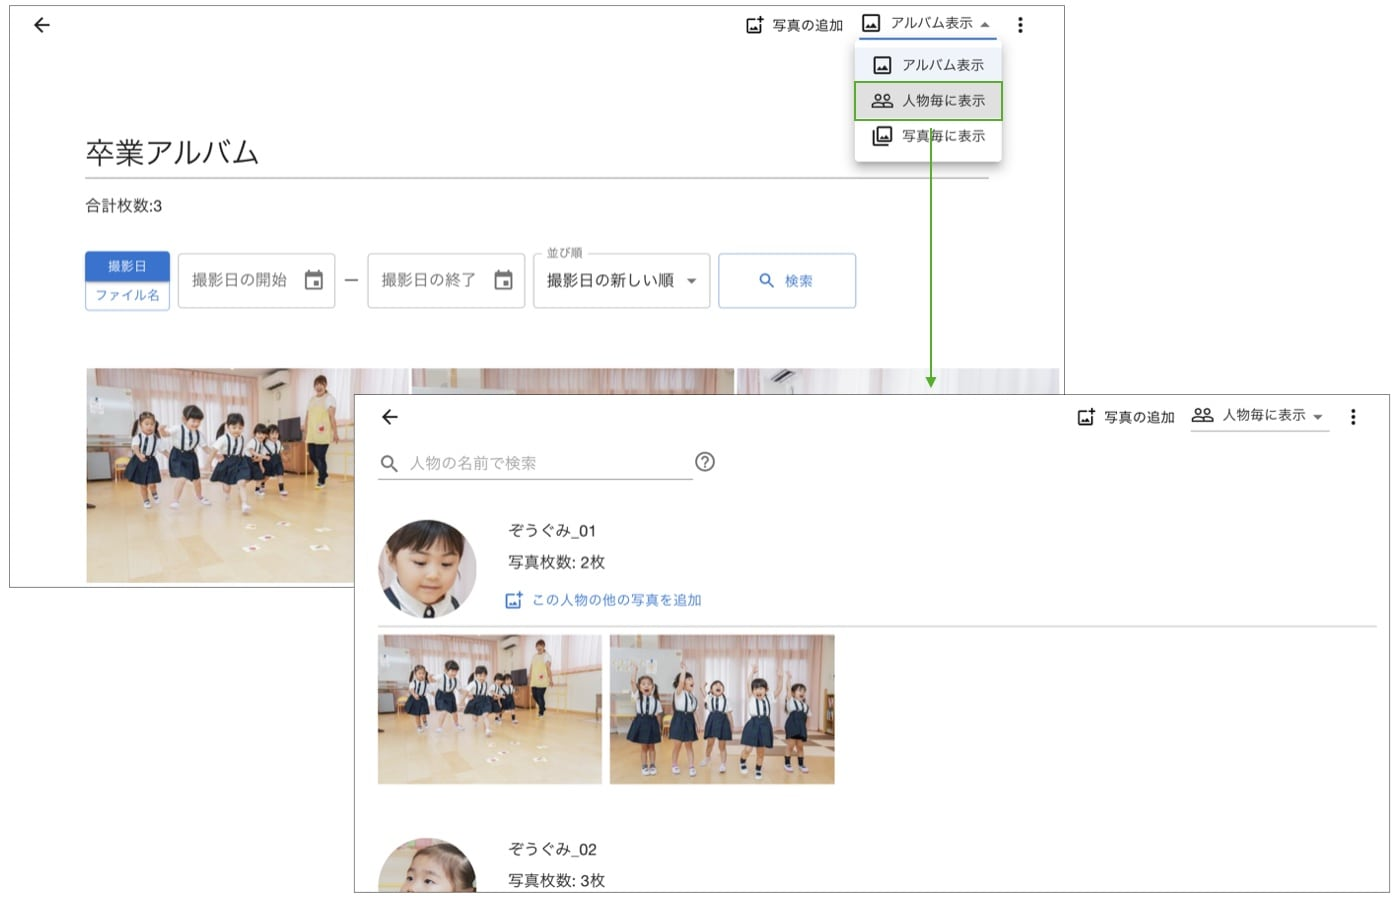
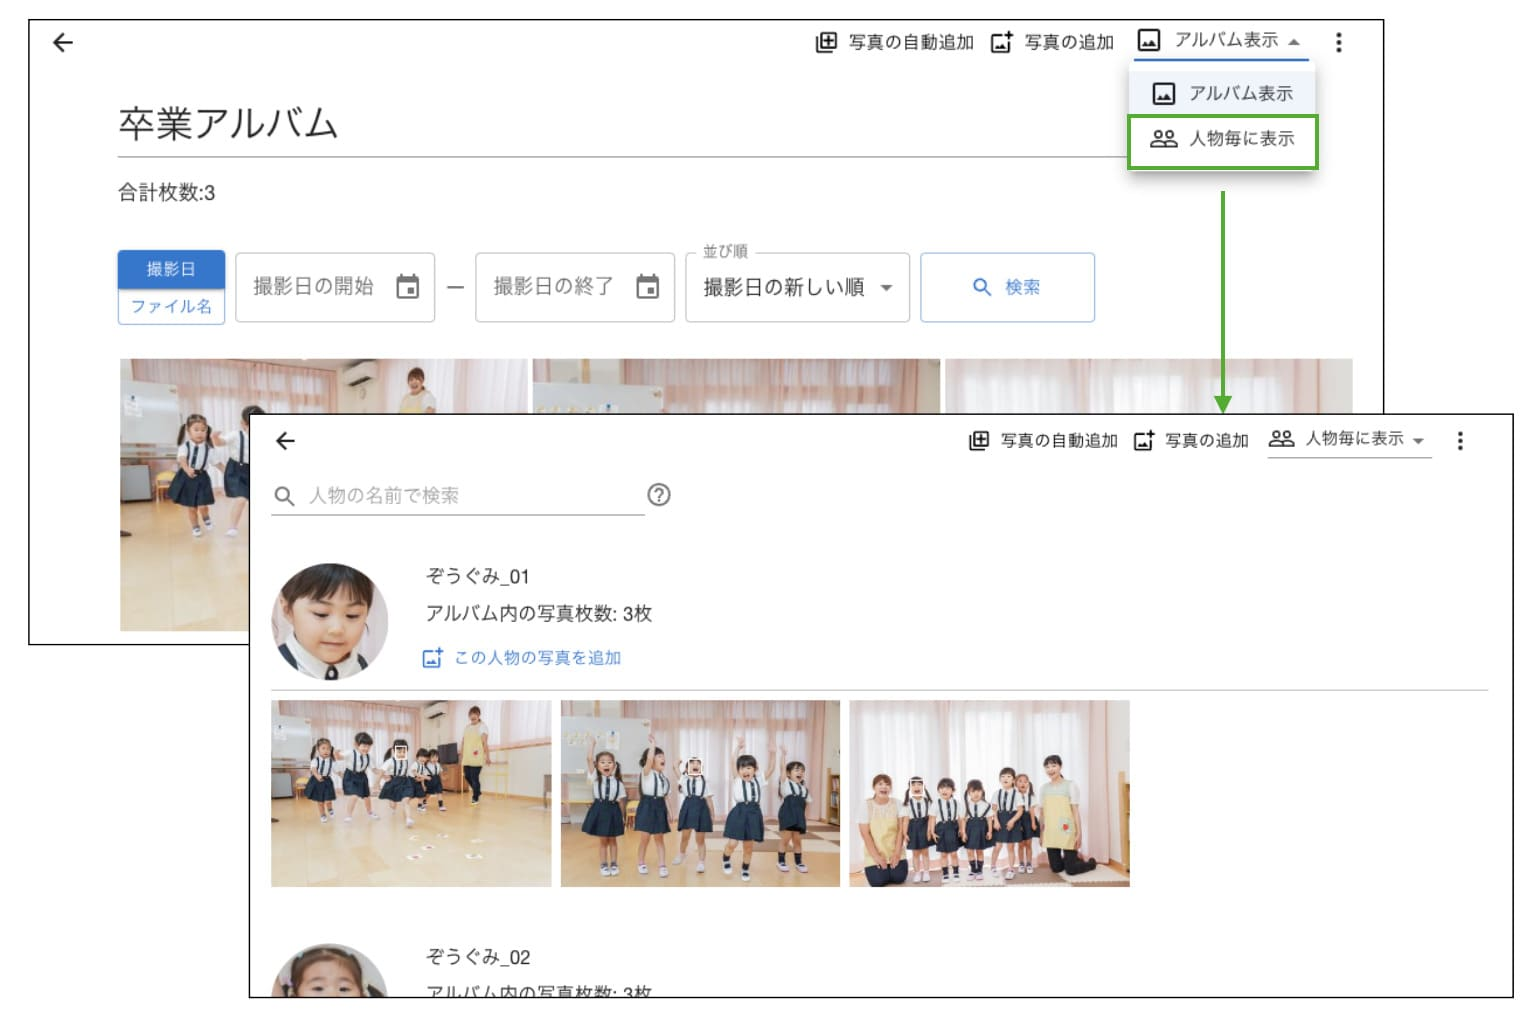
update

Changed region(s): [[0.0, 0.0, 1.0, 0.9933], [0.4918, 0.4967, 0.5225, 0.5277]]

diff --git a/sidebars.js b/sidebars.js
@@ -46,6 +46,10 @@ const sidebars = {
           type: 'doc',
           id: 'tutorial/create-album',
         },
+        {
+          type: 'doc',
+          id: 'tutorial/download-album',
+        },
       ],
     },
     {

diff --git a/docs/tutorial/05_create-album.md b/docs/tutorial/05_create-album.md
@@ -1,51 +1,66 @@
 ---
-sidebar_label: 'アルバムの作成'
+sidebar_label: 'アルバムの写真選び'
 sidebar_position: 5
 ---
 
-# アルバムの作成
-アルバム作成の操作は以下のとおりです。
+# アルバムの写真選び
+アルバムの写真選びの操作は以下のとおりです。
 
-1. ページ左の「アルバム」メニューをクリックし、ページ右にある「アルバムを作成」ボタンをクリックします。  
+1. まずはアルバムを作成します。  
+ページ左の「アルバム」メニューをクリックし、ページ右にある「アルバムを作成」ボタンをクリックします。  
 アルバム詳細ページが表示されますので、アルバム名を入力します。
 
- ![create album](/img/docs/create-album.jpg)
+ ![アルバムの選択](/img/docs/create-album.jpg)
 
-2. アルバムに写真を追加します。  
-アルバムへの写真の追加は写真の一覧から選択する方法と、対象の人物が写った写真から選択する方法があります。  
-はじめに写真の一覧から選択してみましょう。  
+2. アルバムに写真を選んで追加します。  
+アルバムへの写真の追加は以下の3通りの方法があります。
+
+ <ul>
+   <li>写真の一覧から選択</li>
+   <li>対象の人物が写った写真から選択</li>
+   <li>自動選択</li>
+ </ul>
+
+     
+ はじめに、写真の一覧から選択する方法をやってみましょう。  
 
  ページ右上部の「写真の追加」ボタンをクリックします。  
 写真の一覧が表示されますので、アルバムに追加したい写真のチェックマークをクリックします。  
 写真の選択が終わりましたら「完了」ボタンをクリックすると、アルバムに選択した写真が追加されます。
 
- ![select photo from photos](/img/docs/select-photo-from-photos.jpg)
+ ![写真一覧から写真を選択](/img/docs/select-photo-from-photos.jpg)
 
-3. 次に写真を追加したい人物の写真から選択する方法をやってみましょう。  
+3. 次に写真を追加したい人物が写っている写真から選択する方法をやってみましょう。  
 ページ右上部の表示メニューから「人物毎に表示」を選択します。  
-このページでは人物毎にアルバム内にある写真を確認できます。
+「人物毎に表示」のページでは人物毎にアルバム内にある写真を確認できます。  
 
- ![photos in album by person](/img/docs/album-by-person.jpg)
+ ![人物毎に表示](/img/docs/album-by-person.jpg)
 
 
 4. 写真を追加したい人物の右にある「この人物の他の写真を追加」ボタンをクリックします。  
-対象の人物の写真一覧が表示されますので、アルバムに追加したい写真のチェックマークをクリックします。  
+対象の人物が写った写真一覧が表示されますので、アルバムに追加したい写真のチェックマークをクリックします。  
 写真の選択が終わりましたら「完了」ボタンをクリックすると、アルバムに選択した写真が追加されます。
 
- ![select photo from person's photos](/img/docs/select-photo-from-person-photos.jpg)
+ ![人物の写真一覧から選択](/img/docs/select-photo-from-person-photos.jpg)
 
 :::tip
-写真の選択ページでは写真の並び順を「撮影日の新しい順」、「撮影日の古い順」、「顔の大きさ順」、「似ている順」から選択できます。  
+写真の選択ページでは写真の並び順を「撮影日の新しい順」、「撮影日の古い順」、「顔の大きさ順」、「似ている順」から選べます。  
 :::
 
-5. アルバムに追加した写真は、ファイル名一覧とアップロードした元ファイルをダウンロードできます。  
-ページ右上部の表示メニューを「アルバム表示」にして「︙」ボタンをクリックし、「ファイル名一覧をダウンロード」を選択するとファイル名一覧、「ファイルをダウンロード」を選択するとファイルをダウンロードできます。  
+5. 最後に写真の自動選択をやってみましょう。  
+ページ右上部の「写真の自動追加」ボタンをクリックします。  
+写真の自動追加ページが表示されますので、アルバムの写真枚数を入力して「写真を追加」ボタンをクリックします。  
+Albumieが人物毎の掲載数が均等になるように自動で写真を選びます。  
 
- ![ファイルのエクスポート](/img/docs/export-text-or-file.jpg)
+ ![写真の自動追加](/img/docs/auto-select-photos.jpg)
 
+6. 写真選びが終了すると、それぞれの人物についてアルバム内の既存の写真と自動選択により追加された写真の一覧が表示されます。  
+追加された写真をそのままアルバムに追加する場合は、ページ右上部の「完了」ボタンをクリックします。  
+追加したくない写真がある場合は、追加された写真のチェックマークを外して「完了」ボタンをクリックしてください。  
+また、追加した写真をすべてキャンセルする場合は、ページ左上の「X」ボタンをクリックします。
 
-:::info
-ファイルをダウンロードする場合、ご利用のブラウザによっては以下のように複数ファイルのダウンロードの許可を求めるポップアップが表示されますので許可する設定をお願いします。
+ ![写真の自動追加](/img/docs/auto-select-photos-completed.jpg)
 
-  <img src="/img/docs/allow-to-download.jpg" alt="複数ファイルのダウンロードの許可" width="500"/>
-:::
+このように、Albumieでは写真選びが簡単にできる方法を提供しています。  
+とくに多くの写真をアルバムに掲載する場合は自動選択機能が便利です。
+まずは自動選択で選んでみて、そこから取捨選択し、選りすぐりの写真を選んで改善することをおすすめします。

diff --git a/docs/tutorial/06_download-album.md b/docs/tutorial/06_download-album.md
@@ -1,0 +1,23 @@
+---
+sidebar_label: 'アルバムのダウンロード'
+sidebar_position: 6
+---
+
+# アルバムのダウンロード
+アルバムに追加した写真は、ファイル名一覧とアップロードした元ファイルのダウンロードができます。  
+
+ページ右上部の表示メニューを「アルバム表示」にして「︙」ボタンをクリックし、「ファイル名一覧をダウンロード」を選択するとファイル名一覧、「ファイルをダウンロード」を選択するとファイルをダウンロードできます。  
+
+ ![ファイルのエクスポート](/img/docs/export-text-or-file.jpg)
+
+
+:::info
+ファイルをダウンロードする場合、ご利用のブラウザによっては以下のように複数ファイルのダウンロードの許可を求めるポップアップが表示されますので許可する設定をお願いします。
+
+  <img src="/img/docs/allow-to-download.jpg" alt="複数ファイルのダウンロードの許可" width="500"/>
+:::
+
+基本的な操作方法は以上です。  
+
+[一歩すすんだ操作](/advanced/create-collection.md)のページでは、写真の管理方法や他のユーザを招待する方法などを説明しています。  
+必要に応じてご確認ください。

diff --git a/docs/intro.md b/docs/intro.md
@@ -7,6 +7,7 @@ sidebar_position: 1
 # はじめに
 このドキュメントは [Albumie](https://albumie.app)のオンラインマニュアルです。
 
-Albumieは、AI(人工知能)による顔認識機能を持った卒業アルバム作成支援サービスです。
+Albumieは、AI(人工知能)による顔認識機能を持った卒業アルバム作成支援サービスです。  
+児童生徒毎にアルバム内の写真と枚数が確認でき、写真枚数が均等になるように卒業アルバムの写真選びができます。
 
-はじめての人は、[基本的な操作方法](/tutorial/intro)で、写真のアップロードからアルバムの作成までの基本的なひととおりの操作をやってみることをおすすめします。
+はじめての人は、[基本的な操作方法](/tutorial/intro)で、写真のアップロードから写真選びまでのひととおりの操作をやってみることをおすすめします。

diff --git a/docs/tutorial/02_upload-photo.md b/docs/tutorial/02_upload-photo.md
@@ -17,6 +17,11 @@ sidebar_position: 2
 
  <img src="/img/docs/file-dialog.jpg" width="500"/>
 
+:::tip
+写真のアップロードにかかかる時間は、ご利用のネットワーク回線の速度やアップロードする写真のファイルサイズによって異なります。  
+最初は1度に1,000枚程度までを目処にアップロードしてみてください。
+:::
+
 3. 選択したファイルの枚数が表示されるので確認後、「アップロード」ボタンをクリックします
 4. アップロードが完了すると「閉じる」ボタンが表示されるのでクリックします
 
